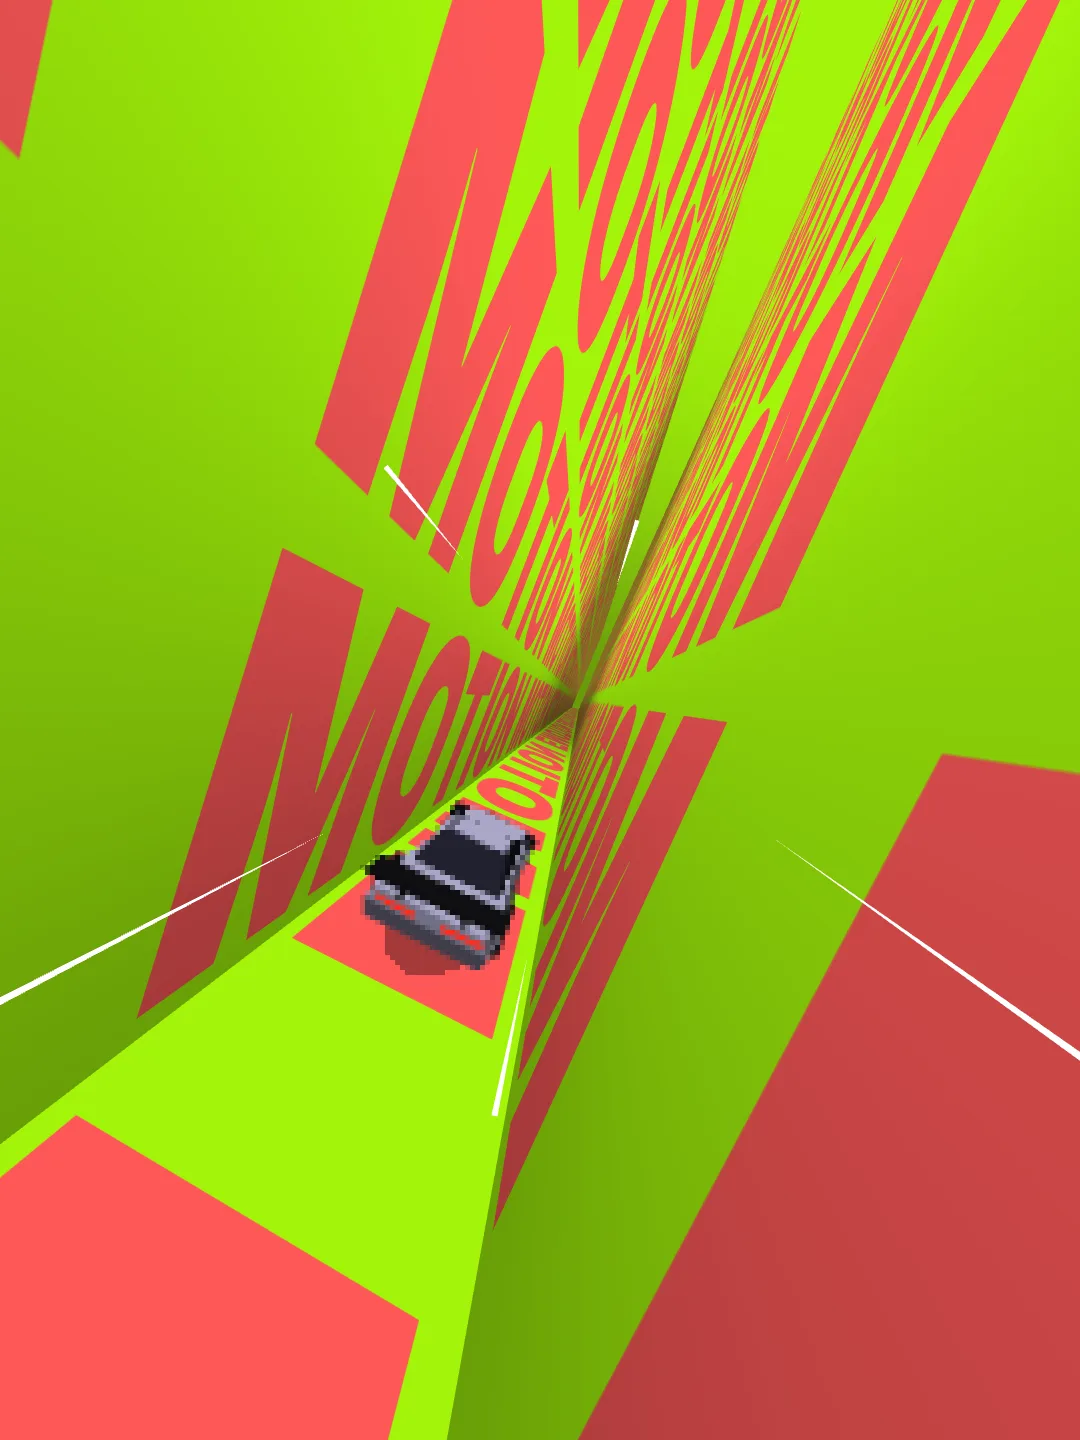
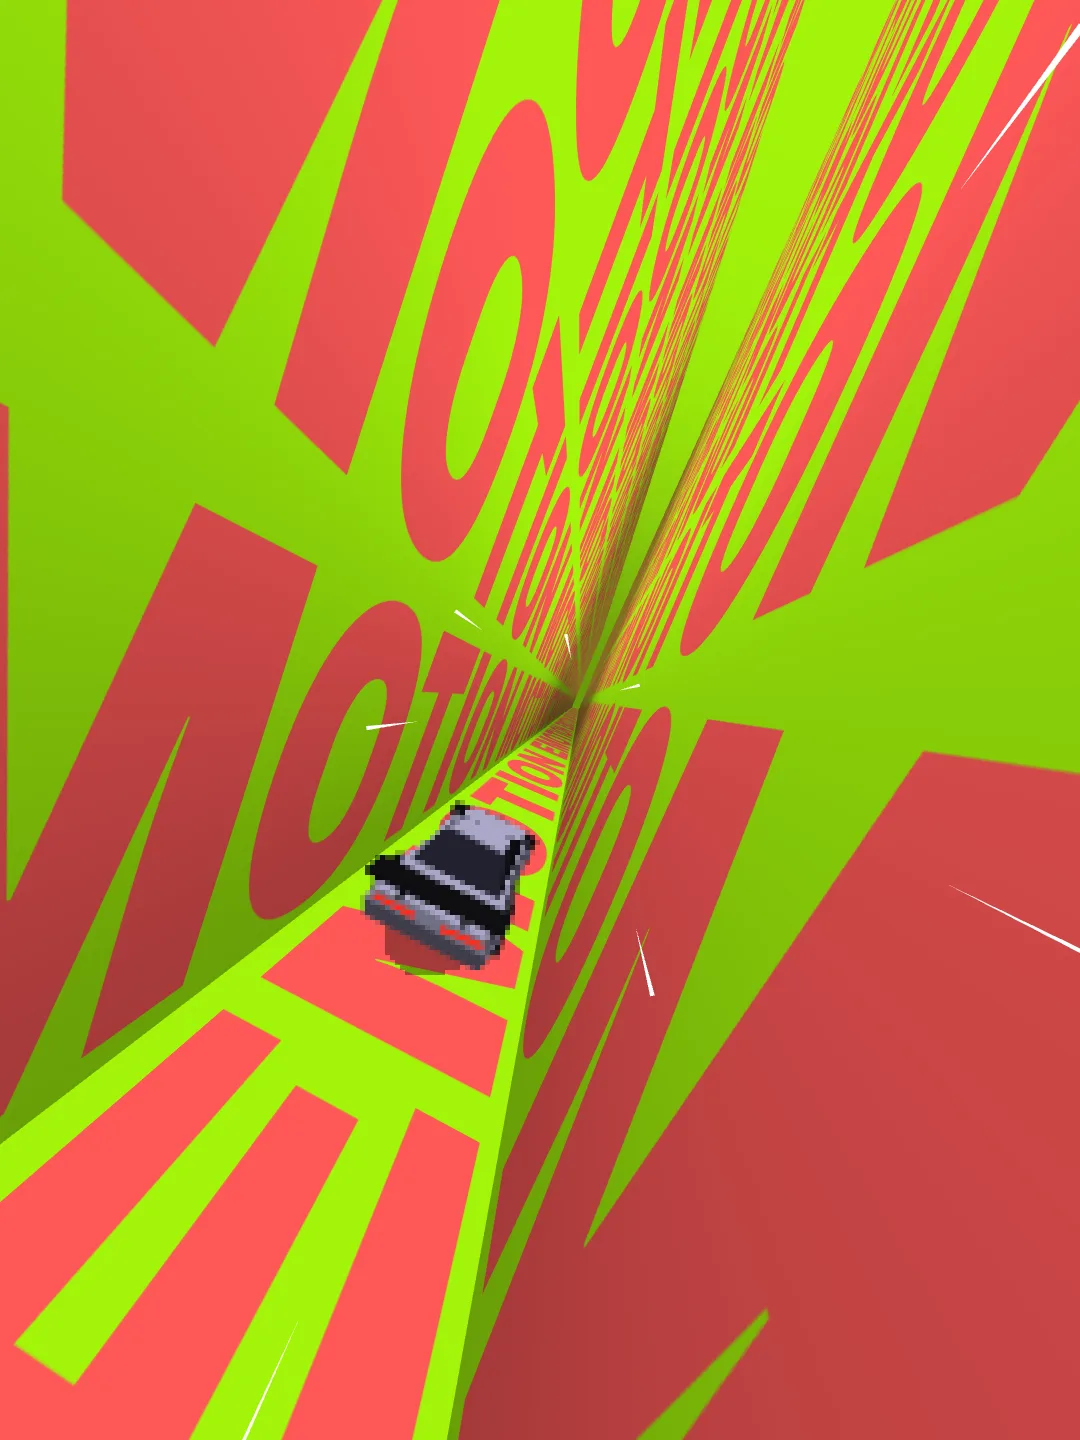
Corredor: partículas de velocidad hacia la cámara y suelo volteado en vertical
- Las líneas ahora son partículas cortas que viajan desde el punto de
  fuga hacia la cámara con perspectiva real (distancia 1/(1-q)): nacen
  diminutas, aceleran y salen por los bordes. 8 por defecto.
- Texto del suelo volteado en vertical, con botón VOLTEAR SUELO
  (VERTICAL) activado por defecto.

Claude-Session: https://claude.ai/code/session_015Ei6rKT9R3QTQAPas9teZr

diff --git a/public/tools/corredor.html b/public/tools/corredor.html
@@ -726,6 +726,7 @@ html.glam-alt, html.glam-alt body, html.glam-alt #frame, html.glam-alt .tss{back
               <button type="button" class="cam-btn" id="tInvSuelo">INVERTIR SUELO</button>
               <button type="button" class="cam-btn" id="tInvDer">INVERTIR DERECHA</button>
             </div>
+            <button type="button" class="cam-btn" id="tVolSuelo">VOLTEAR SUELO (VERTICAL)</button>
           </div>
         </div>
 
@@ -826,12 +827,13 @@ const BASE={
   // corredor
   ancho:.3, largo:46, extension:2.2, altoFilas:.99,
   franjasPared:7, altoPared:1.4,
-  invSuelo:false, invDerecha:false,  // la E del suelo y la M de la pared derecha llegan primero a la cámara  // las paredes llevan N franjas; arriba queda abierto (cielo)
+  invSuelo:false, invDerecha:false,  // la E del suelo y la M de la pared derecha llegan primero a la cámara
+  voltearSuelo:true,                  // espejo vertical del texto del suelo  // las paredes llevan N franjas; arriba queda abierto (cielo)
   // color
   fondo:'#A3F50A', tinta:'#FE5858', cielo:'#A3F50A', nieblaColor:'#0A0A0A', niebla:.38, nieblaInicio:4.5, degradadoCielo:.89,
   sombra:.35, sombraAlto:2.5,   // sombra en las paredes desde el suelo
   // líneas de velocidad: salen del punto de fuga y pasan junto a la cámara
-  lineas:6, lineasLargo:.5, lineasGrosor:9, lineasVel:2, lineasColor:'#FFFFFF',
+  lineas:8, lineasLargo:.3, lineasGrosor:7, lineasVel:3, lineasColor:'#FFFFFF',
   // carro deportivo low-poly: se queda frente a la cámara y el pasillo corre bajo él
   carro:true, carroColor:'#A9A7C7', carroDist:1.9, carroX:0, carroEscala:1, carroPixel:5, carroRebote:.5,
 };
@@ -1153,9 +1155,11 @@ function lineasDibujar(p,ph){
   for(let i=0;i<n;i++){
     const ang=(i+.15+.7*azar(i+3))/n*Math.PI*2;             // repartidas alrededor del punto de fuga
     const q=((azar(i+7)+ph*K)%1+1)%1;                       // avance 0→1 de esta línea
-    const ac=q*q*q;                                         // acelera al acercarse, como en perspectiva
-    const rh=R*(.04+1.1*ac), rt=Math.max(R*.01,rh*(1-P.lineasLargo*(.7+.6*azar(i+13))));
-    const alfa=Math.min(1,q/.15)*(1-Math.min(1,Math.max(0,(q-.85)/.15)));
+    // viaja del punto de fuga hacia la cámara: distancia 1/(1-q) como un objeto que se acerca a velocidad constante
+    const z=Math.max(.02,1-q), rh=R*.03/z, rt=rh*(1-P.lineasLargo*(.7+.6*azar(i+13)));
+    if(rt>R*1.1) continue;                                  // ya pasó junto a la cámara
+    const ac=Math.min(1,rh/R);
+    const alfa=Math.min(1,q/.25);
     const cx=Math.cos(ang), cy=Math.sin(ang), g=P.lineasGrosor*(.4+1.6*ac)*.5;
     const hx=vp[0]+cx*rh, hy=vp[1]+cy*rh, tx=vp[0]+cx*rt, ty=vp[1]+cy*rt;
     lineaSh.setUniform('uAlfa',alfa*.95);
@@ -1194,7 +1198,7 @@ function dibujar(p,ph){
   // p5 WEBGL: y hacia abajo. Suelo en y = +h; arriba de las paredes no hay nada: se ve el cielo.
   const caras=[
     {esq:(s,t)=>[-w, top+hp*t, -s], filas:hp/fp, fila:fp, dir:1, pared:1},        // pared izquierda
-    {esq:(s,t)=>[xR-anchoSuelo*t, h, -s], filas:1, fila:2*h*P.altoFilas, dir:P.invSuelo?-1:1, voltear:P.invSuelo, pared:0},  // suelo: una fila que llena todo el ancho
+    {esq:(s,t)=>[xR-anchoSuelo*t, h, -s], filas:1, fila:2*h*P.altoFilas, dir:P.invSuelo?-1:1, voltear:P.invSuelo!==P.voltearSuelo, pared:0},  // suelo: una fila que llena todo el ancho
     {esq:(s,t)=>[xR, top+hp*t, -s], filas:hp/fp, fila:fp, dir:-1, pared:1},       // pared derecha
   ];
   for(let i=0;i<3;i++){
@@ -1342,6 +1346,8 @@ slider('slGeo','franjasPared','Franjas en las paredes',1,8,1);
 slider('slGeo','altoPared','Alto de franja (paredes)',.2,3,.01);
 $('tInvSuelo').addEventListener('click',()=>{ P.invSuelo=!P.invSuelo; repaint(); });
 painters.push(()=>$('tInvSuelo').setAttribute('aria-pressed',!!P.invSuelo));
+$('tVolSuelo').addEventListener('click',()=>{ P.voltearSuelo=!P.voltearSuelo; repaint(); });
+painters.push(()=>$('tVolSuelo').setAttribute('aria-pressed',!!P.voltearSuelo));
 $('tInvDer').addEventListener('click',()=>{ P.invDerecha=!P.invDerecha; repaint(); regenerar(); });
 painters.push(()=>$('tInvDer').setAttribute('aria-pressed',!!P.invDerecha));
 // color
